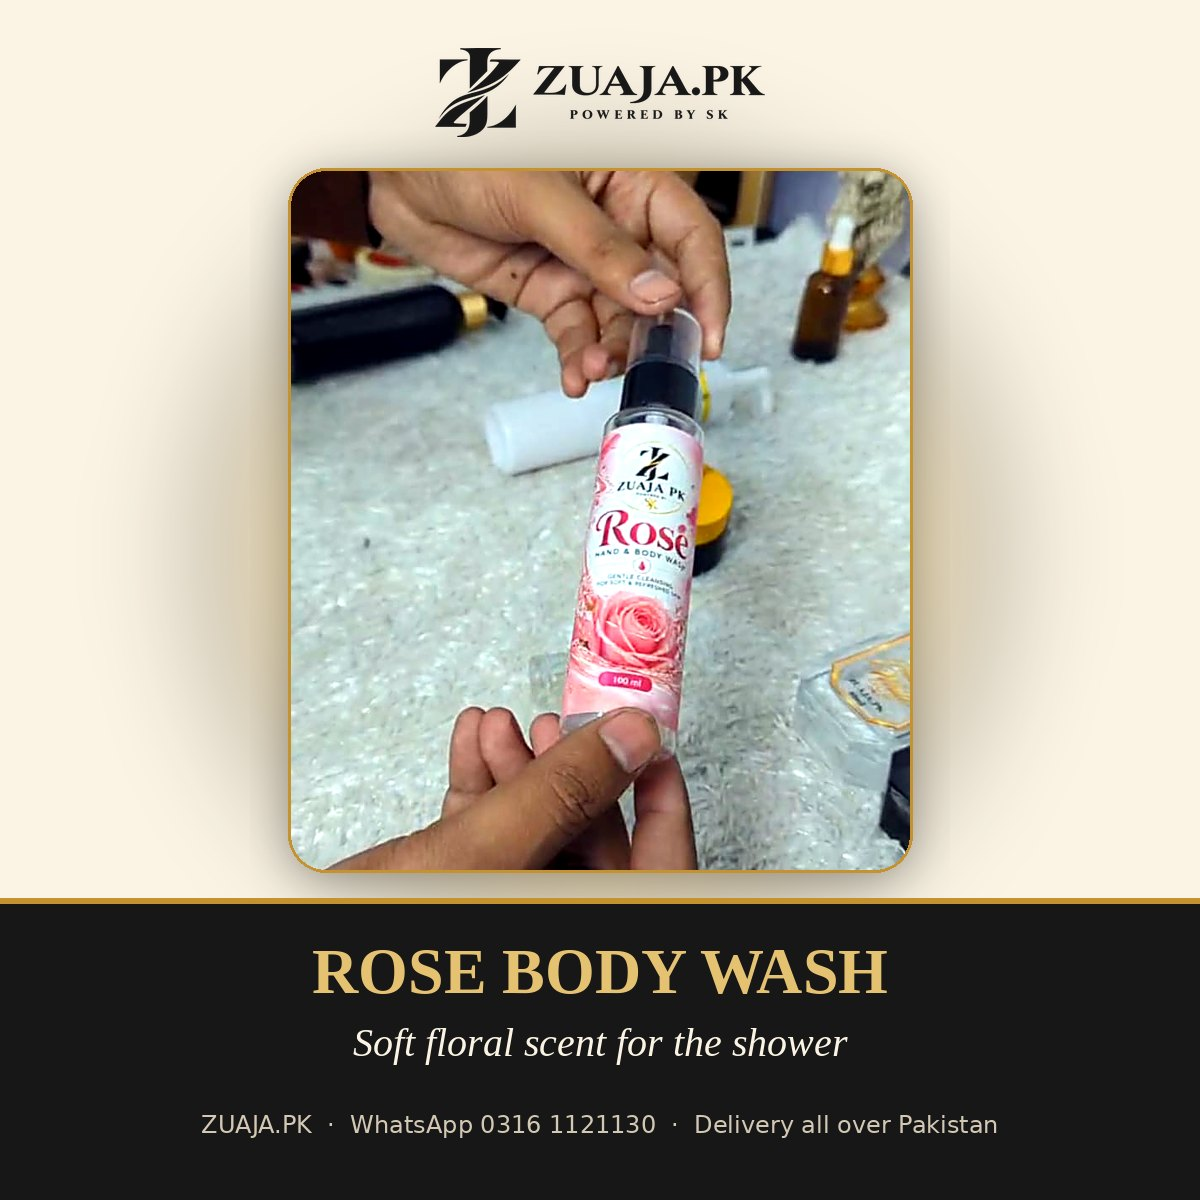
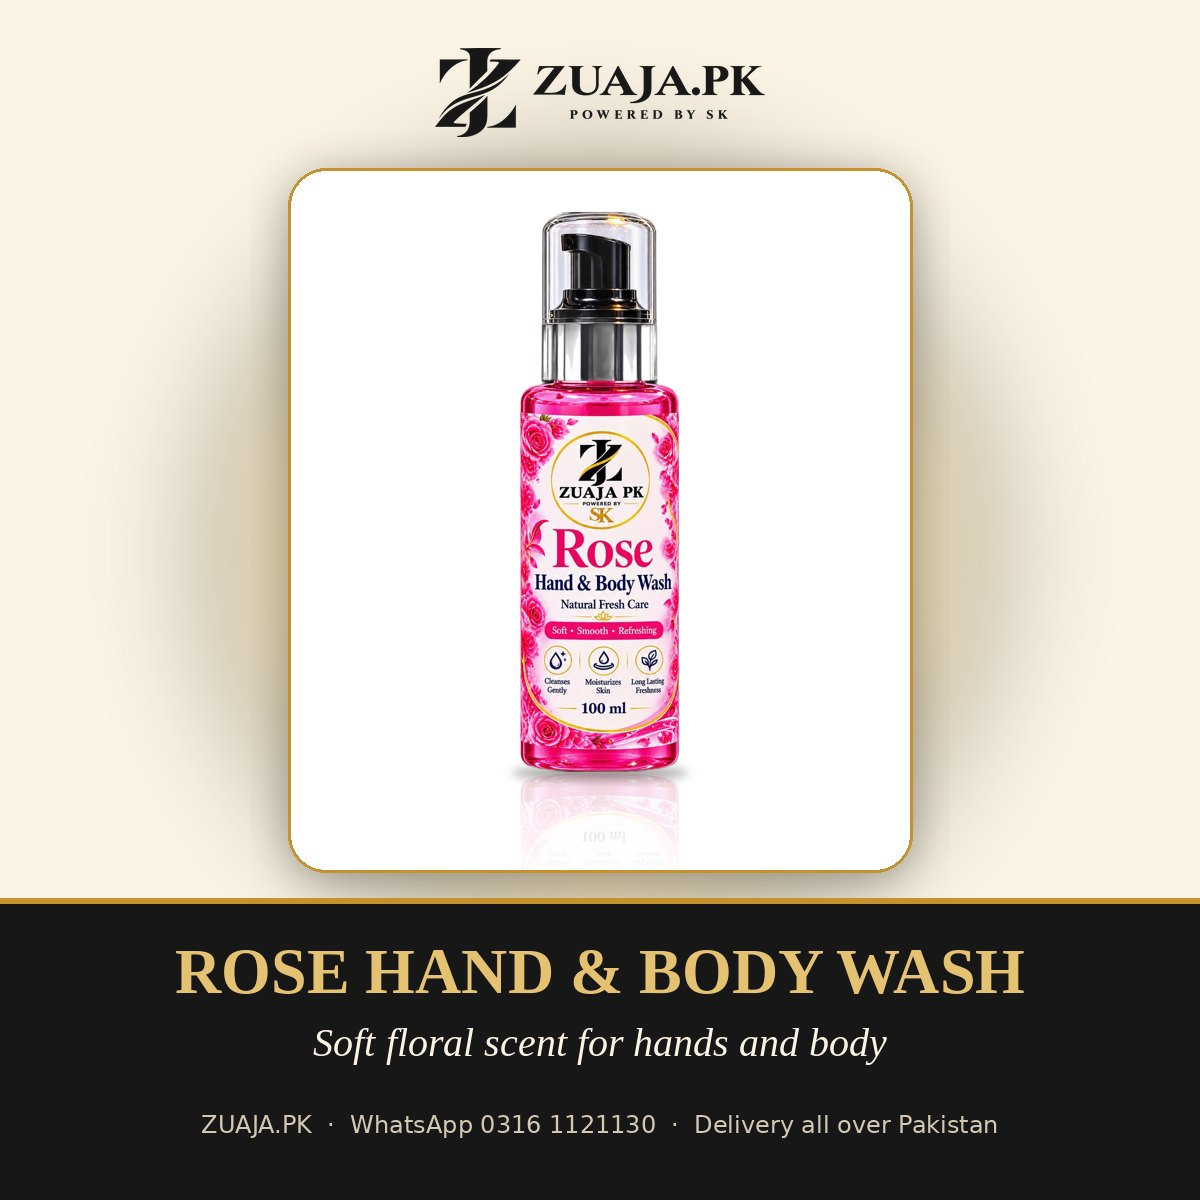
Add studio-retouched packshots from real photos and client renders
Claude-Session: https://claude.ai/code/session_01FHxRitzaKkbjSXsXse4VX8

diff --git a/tools/make_studio.py b/tools/make_studio.py
@@ -1,0 +1,78 @@
+"""Studio-style e-commerce packshots from real product cut-outs (label pixels are never regenerated).
+
+Retouch: white balance from the product's own pixels, gentle contrast/clarity, edge feather.
+Staging: pure white 1500x1500, product centred at ~80% height, soft contact shadow and a faint
+floor reflection, like a studio shoot.
+Usage: python3 -I make_studio.py <out_dir> <key>=<cutout.png>[:raw] ...
+  ":raw" skips colour retouching (for images that are already retouched).
+"""
+import sys
+from pathlib import Path
+
+import numpy as np
+from PIL import Image, ImageChops, ImageDraw, ImageEnhance, ImageFilter
+
+OUT = Path(sys.argv[1])
+OUT.mkdir(parents=True, exist_ok=True)
+S = 1500
+
+
+def retouch(p):
+    rgb = p.convert("RGB")
+    a = np.asarray(p.getchannel("A")) > 200
+    arr = np.asarray(rgb).astype(np.float32)
+    if a.sum() > 500:
+        px = arr[a]
+        lo, hi = np.percentile(px, 0.6, axis=0), np.percentile(px, 99.4, axis=0)
+        arr = np.clip((arr - lo) / np.maximum(hi - lo, 1) * 255, 0, 255)
+        m = arr[a].mean(0)
+        arr = np.clip(arr * (m.mean() / m) ** 0.6, 0, 255)  # partial gray-world: keeps product colour honest
+    rgb = Image.fromarray(arr.astype(np.uint8))
+    rgb = ImageEnhance.Color(rgb).enhance(1.08)
+    rgb = ImageEnhance.Contrast(rgb).enhance(1.04)
+    rgb = rgb.filter(ImageFilter.UnsharpMask(radius=2.2, percent=70, threshold=2))
+    out = rgb.convert("RGBA")
+    out.putalpha(p.getchannel("A"))
+    return out
+
+
+def feather(p):
+    a = p.getchannel("A").filter(ImageFilter.MinFilter(3)).filter(ImageFilter.GaussianBlur(0.8))
+    p = p.copy()
+    p.putalpha(a)
+    return p
+
+
+def stage(p):
+    c = Image.new("RGBA", (S, S), (255, 255, 255, 255))
+    p = p.crop(p.getbbox())
+    r = min(S * 0.80 / p.height, S * 0.62 / p.width)
+    p = p.resize((round(p.width * r), round(p.height * r)), Image.LANCZOS)
+    x = (S - p.width) // 2
+    base = int(S * 0.86)
+    y = base - p.height
+    # faint reflection
+    refl = p.transpose(Image.FLIP_TOP_BOTTOM)
+    rh = int(p.height * 0.22)
+    refl = refl.crop((0, 0, p.width, rh))
+    grad = Image.linear_gradient("L").resize((p.width, rh)).point(lambda v: int((255 - v) * 0.16))
+    refl.putalpha(ImageChops.multiply(refl.getchannel("A"), grad))
+    c.alpha_composite(refl, (x, base + 2))
+    # contact shadow + soft ambient shadow
+    for spread, blur, alpha in ((0.55, 40, 60), (0.98, 10, 120)):
+        m = Image.new("L", (S, S), 0)
+        w = p.width * spread
+        ImageDraw.Draw(m).ellipse((S / 2 - w / 2 - 20, base - 10, S / 2 + w / 2 + 20, base + 14), fill=alpha)
+        c.paste(Image.new("RGBA", (S, S), (40, 32, 24, 255)), (0, 0), m.filter(ImageFilter.GaussianBlur(blur)))
+    c.alpha_composite(p, (x, y))
+    return c.convert("RGB")
+
+
+for arg in sys.argv[2:]:
+    key, src = arg.split("=", 1)
+    raw = src.endswith(":raw")
+    src = src[:-4] if raw else src
+    p = Image.open(src).convert("RGBA")
+    p = feather(p if raw else retouch(p))
+    stage(p).save(OUT / f"{key}.png", optimize=True)
+    print(key)
